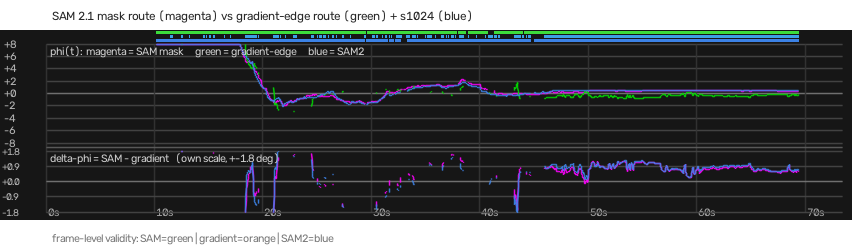
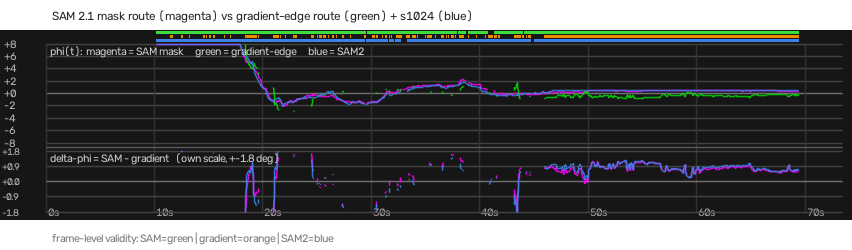
fix(viz): 修正有效性条带的颜色(BGR 写反, 橙色被渲染成蓝色)
- 原方案有效性条带用了 (230,160,60): BGR 下蓝多红少 ⇒ 实际是浅蓝,
  和 SAM2 条带的 (230,130,60) 几乎分不清, 而图例写着 "gradient=orange"
- 改为 C_ORANGE = (0,140,235)(红多蓝少 = 真橙), 并加注释提醒 BGR 顺序
- 重新生成 compare_timeline_s512_vs_s1024.png

Changed region(s): [[0.4272, 0.14, 0.946, 0.168], [0.2746, 0.14, 0.3357, 0.168], [0.3662, 0.14, 0.3967, 0.168]]

diff --git a/scripts/compare_video.py b/scripts/compare_video.py
@@ -73,6 +73,7 @@ C_BODY = (0, 220, 255)      # 筒身段标记(黄)
 C_EDGE = (0, 220, 0)        # 原方案左右边(绿)
 C_BOX = (200, 200, 0)       # 稳定框(青)
 C_SAM2 = (230, 130, 60)     # 第二套 SAM 配置(蓝)
+C_ORANGE = (0, 140, 235)    # 原方案有效性条带(橙; BGR 是红多蓝少, 别写反)
 C_REF = (200, 200, 200)
 
 FONT_CANDIDATES = [
@@ -179,7 +180,9 @@ def build_timeline(n: int, fps: float, W: int, H: int,
         if s and str(s.get("ok", "0")) in ("1", "True"):
             strip[1:4, x] = (60, 220, 60)
         if o and str(o.get("ok", "0")) in ("1", "True"):
-            strip[5:8, x] = (230, 160, 60)
+            # ★ BGR! 图例写 orange, 而 (230,160,60) 是"蓝多红少" ⇒ 渲染成蓝色,
+            #   和 SAM2 条带的 (230,130,60) 几乎分不清。真橙色 = 红多蓝少。
+            strip[5:8, x] = C_ORANGE
         if sam2 is not None and str(sam2.get(f, {}).get("ok", "0")) in ("1", "True"):
             strip[9:12, x] = (230, 130, 60)
 
